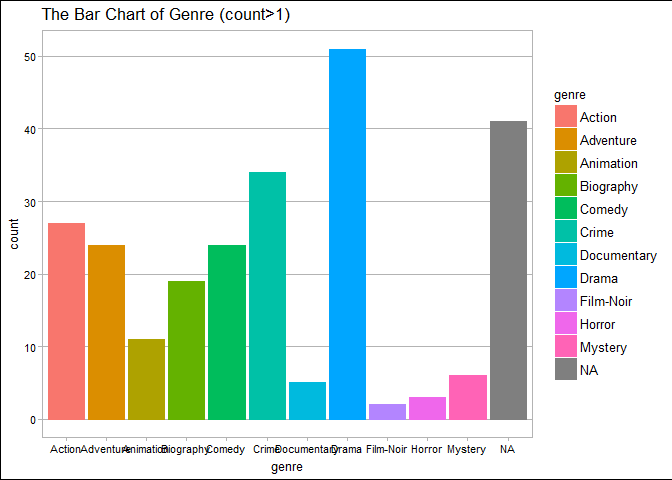
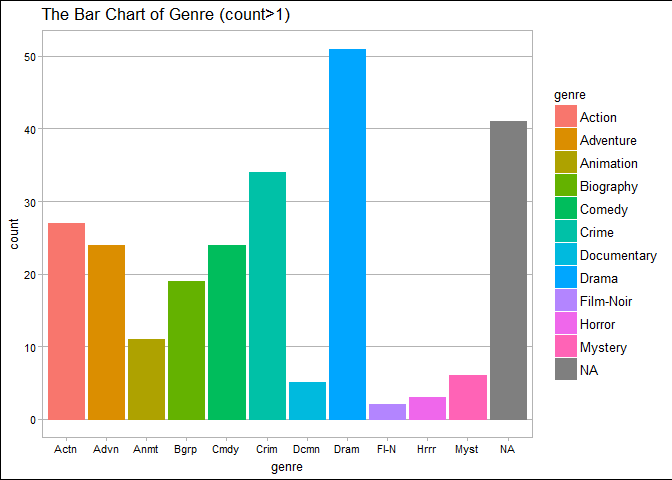
adjust the label of x axis either by automatically abbreviating labels

Changed region(s): [[0.0625, 0.9062, 0.7188, 0.9688]]

diff --git a/hw10/hw10_IMDb.md b/hw10/hw10_IMDb.md
@@ -446,6 +446,7 @@ movie.dat %>%
   filter(length(title)>1) %>% 
   ggplot(aes(x=genre))+
   geom_bar(aes(color=genre, fill=genre))+
+  scale_x_discrete(labels = abbreviate)+
   theme_calc()+
   ggtitle("The Bar Chart of Genre (count>1)")
 ```
